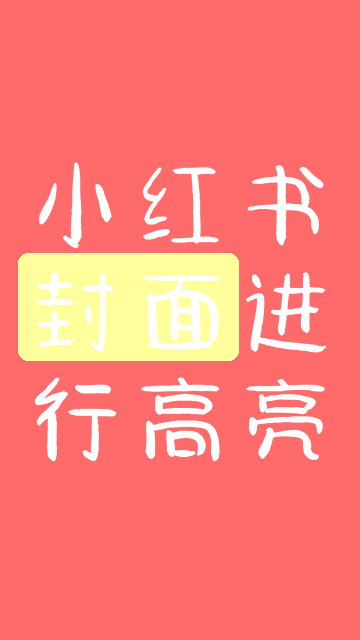
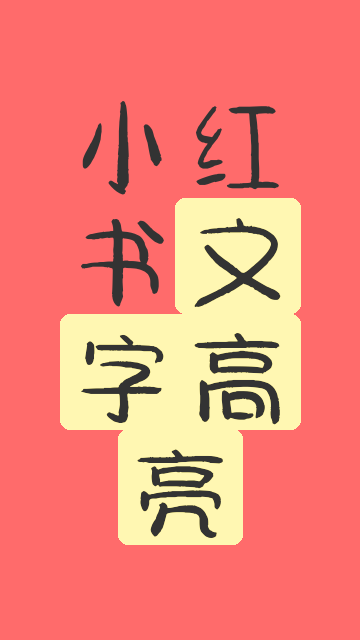
update readme

diff --git a/README.md b/README.md
@@ -126,14 +126,22 @@ python main.py "笔记风格封面" --grid --grid-color "#CCCCCC" --grid-spacing
 4. **Emoji 码点输入与大小比例**
 
 ```bash
-python main.py "支持 Unicode 码点输入 🤓" --emoji-code "U+1F913" --emoji-size-scale 0.8 --emoji-position top --font fonts/thin/SmileySans-Oblique.otf --output ./outputs/emoji_nerd_codepoint.png --width 800 --height 600 --padding 60
+python main.py "支持 Unicode 码点输入 🤓" --emoji-code "U+1F913" --emoji-size-scale 0.8 --emoji-position top --font fonts/thin/SmileySans-Oblique.otf --output ./outputs/emoji_nerd_codepoint.png --width 360 --height 640 --padding 60 --padding-bottom 120
+```
+
+效果示意：
+![高亮+Emoji示例](./outputs/emoji_nerd_codepoint.png)
+
+
+5. **文字高亮**
+```bash
+python main.py "小红书文字高亮" --highlight "文字高亮" --text-color "#333333" --bg-color "#FF6B6B" --width 360 --height 640 --padding-bottom 180 --padding-bottom 120 --padding 30 --output ./outputs/highlight.png
 ```
 
 效果示意：
 ![高亮+Emoji示例](./outputs/highlight.png)
 
 > 注：示意图为占位图，实际生成图片以本工具输出为准。
-
 ---
 
 ## 推荐配色方案
